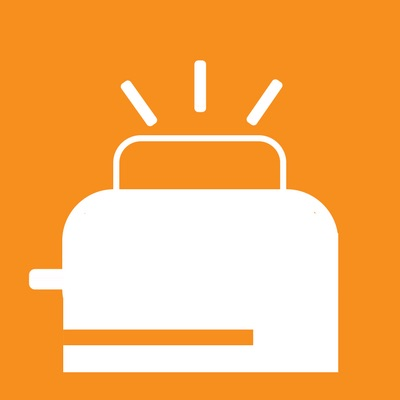
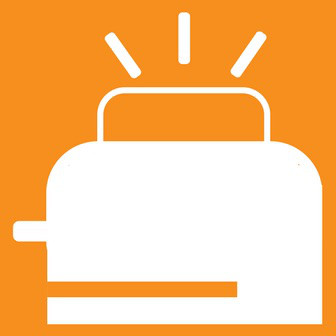
update home page services

Changed region(s): [[0.0298, 0.0298, 0.9821, 0.9821]]

diff --git a/_layouts/index.html b/_layouts/index.html
@@ -87,8 +87,10 @@ layout: default
         <!--end of row-->
         <div class="row text-center">
             {% for service in page.services %}
-            <div class="col-md-3 col-sm-6 mb40 mb-xs-24">
-                <i class="fa fa-{{ service.icon }} icon icon-white inline-block mb16"></i>
+            <div class="col-md-4 col-sm-6 mb40 mb-xs-24">
+                <i class="icon icon-white inline-block mb16">
+                  <img src="{{ service['icon image'] }}" alt="">
+                </i>
                 <h4>{{ service.name }}</h4>
                 <h5>
                   {{ service.text }}

diff --git a/assets/css/all.scss b/assets/css/all.scss
@@ -11,5 +11,5 @@
 @import "lightbox.min";
 @import "ytplayer";
 @import "theme-startup";
-@import "custom";
 @import "font-roboto";
+@import "custom";

diff --git a/_sass/_custom.scss b/_sass/_custom.scss
@@ -102,3 +102,7 @@ textarea {
 nav.scrolled {
   top: 0 !important;
 }
+
+.icon img {
+  max-height: 70px;
+}
